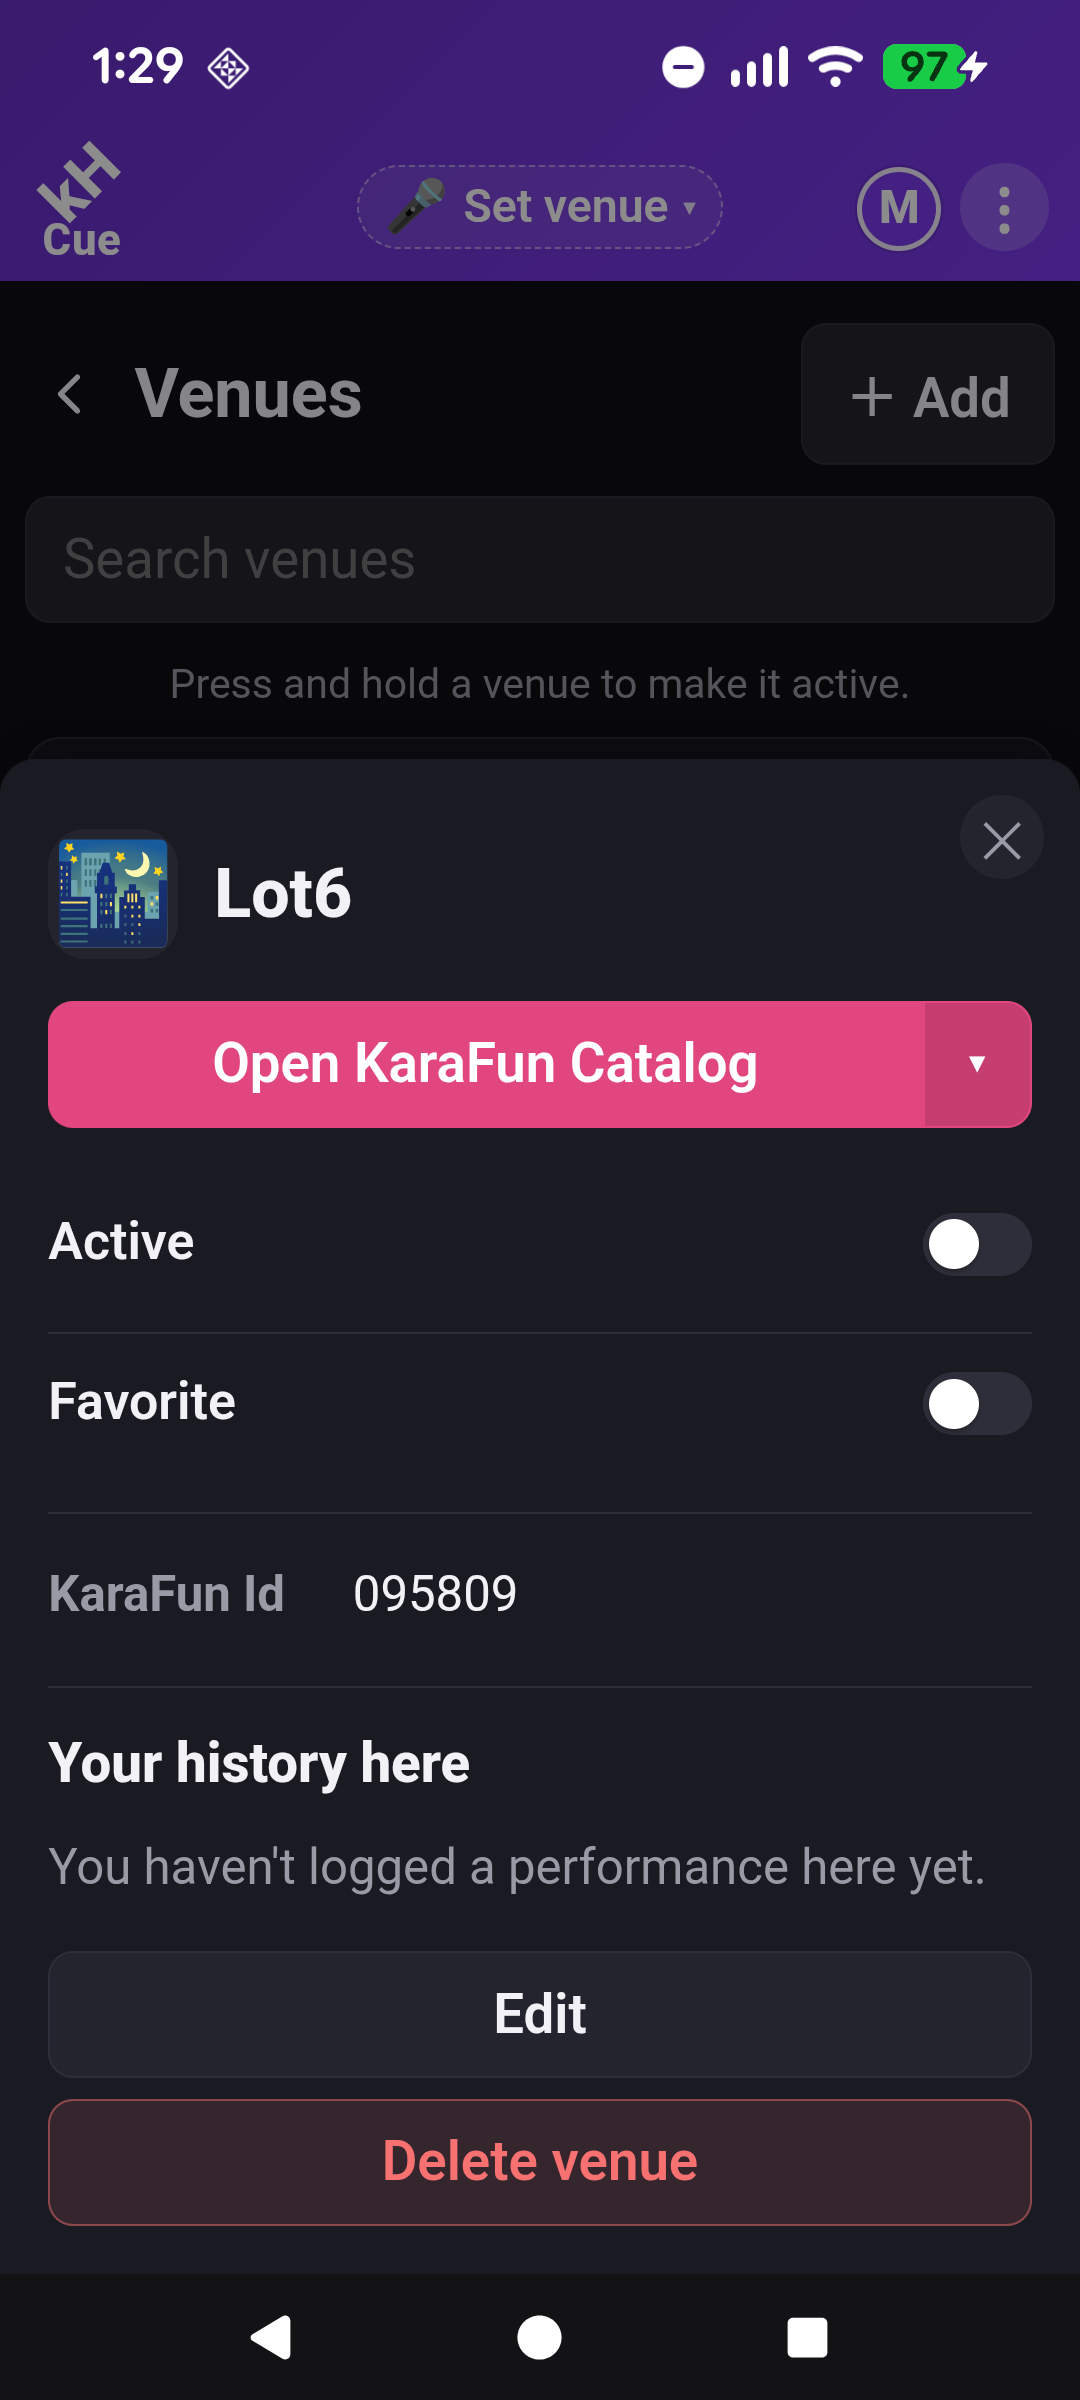
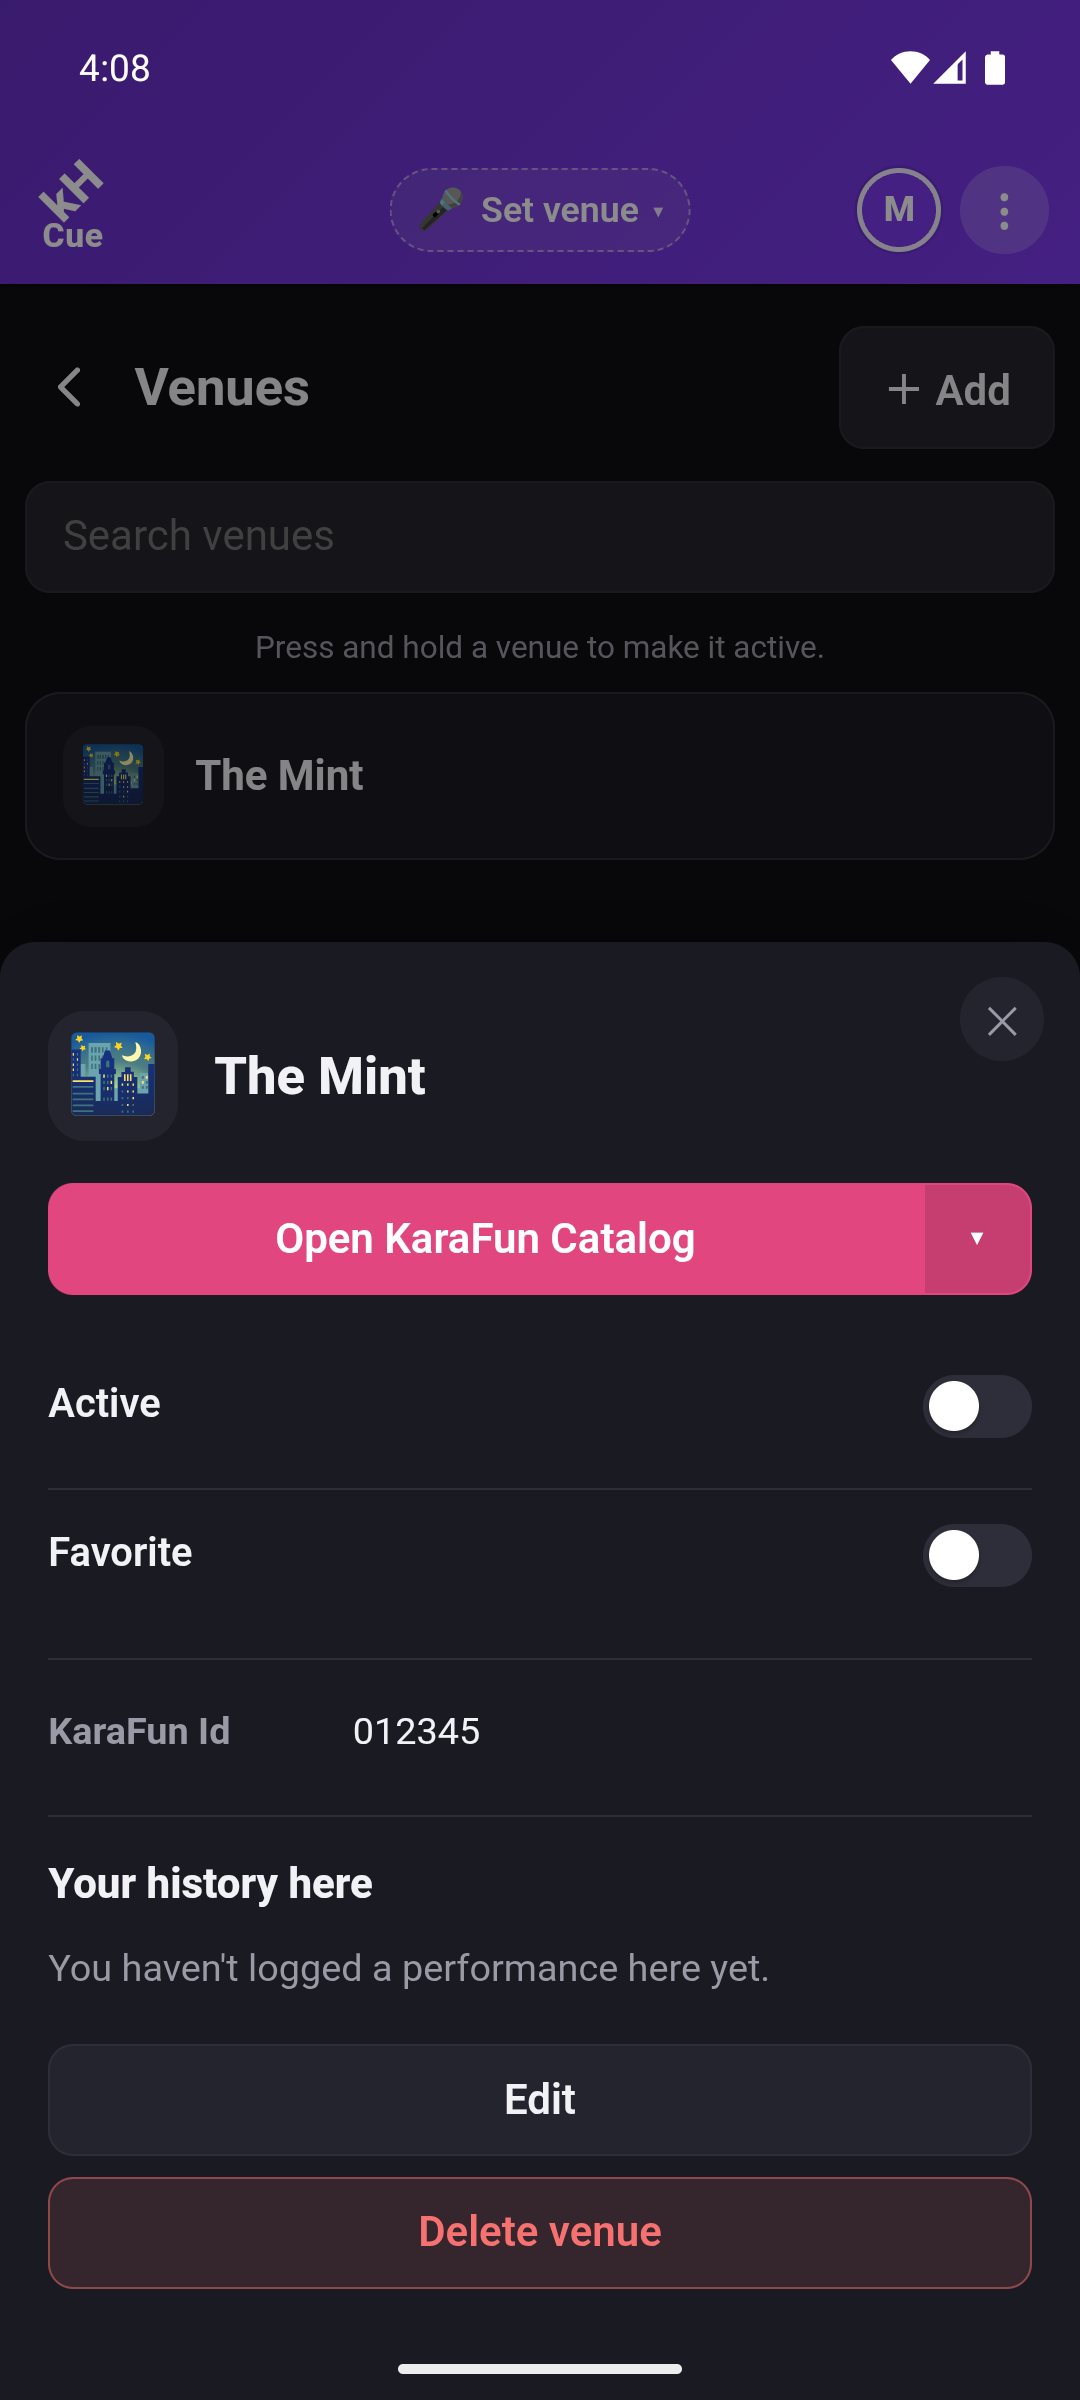
Re-shoot the venues screenshot without a real venue's KaraFun Id
The July grid was shot from a device with a live library, so the venue
sheet published a real venue's catalog ID — public since 26 July, across
v0.13.0, v0.14.0 and v0.15.0. Re-shot on the emulator against seeded
sample data (The Mint / 012345), same skin and layout.

DEVELOPMENT.md's Screenshots section now states the rule, and AGENTS.md
points at it, since nothing in the shoot flow made the exposure visible.

diff --git a/DEVELOPMENT.md b/DEVELOPMENT.md
@@ -80,6 +80,8 @@ Gesture- and sheet-shaped changes are verified by driving the app's WebView over
 
 **The README grid is captured from a physical device** by `playwright/device/shoot_docs.mjs` (plus `shoot_spelling.mjs`, which needs a song with a pending suggestion and so adds and removes a misspelled one). Attach as `playwright/README.md` describes, then `node device/shoot_docs.mjs [name …]`. Shots land at the device's native size — **1080 × 2400** from a Pixel 8, Android status and nav bars included — so re-shoot the whole set from one device rather than mixing sources.
 
+**Shoot against sample data, never a real library — `docs/screenshots/` is public and the README renders it.** The venue detail sheet prints a venue's **KaraFun Id** in the clear, so a grid shot on the phone you actually use publishes a venue you actually go to, along with whatever performance history is attached to it. This is not hypothetical: the July 2026 re-shoot carried a live venue ID for about four weeks, across three releases, before anyone noticed. Seed the sample venue (`The Mint`, KaraFun Id `012345`) and a sample singer first, and **open every PNG and look at it** before committing — the status bar and header chip give away as much as the content does.
+
 Capture goes through `adb exec-out screencap`, **not** `page.screenshot`: CDP capture hangs on this WebView, on a current device head as well as the emulator's older one. Only navigation runs over CDP. Two traps the script encodes, both of which silently photograph the wrong screen: sheets **stack** (detail → history), so close the *last* `.sheet__close`, not the first; and the venue/singer chip popovers are **not** sheets, so they survive a sheet close and then eat the next click. Every shot asserts what's on screen before the shutter, because a wrong-screen capture is otherwise invisible until you look at the PNG.
 
 **Shoot the grid in dark mode, with the active singer on the brand violet.** Both are set on the device before you start: dark via the header **⋮ → 🌙 Dark mode** (it writes `data-theme` on `<html>`, overriding the OS preference, and persists), violet by making a singer whose colour is `SingerColors.Default` (`#7c3aed`) the active one. This isn't taste — the active singer's colour overrides the `--kh-primary` tokens across the whole chrome, so shooting while a teal or amber singer is active produces a grid that doesn't match the app's own branding, and a set shot across two singers won't even match itself. Check the header chip before the first shutter.

diff --git a/AGENTS.md b/AGENTS.md
@@ -55,6 +55,7 @@ dotnet test tests/KHost.Mobile.IntegrationTests/KHost.Mobile.IntegrationTests.cs
 To drive the running app's WebView, use the tools in `playwright/` — `device/` (full Playwright) for a physical device, `emulator/` (raw CDP; the emulator's older WebView rejects Playwright's connect). **`playwright/README.md` is the canonical how-to.**
 
 - **A physical device is someone's actual phone: drive the app, change nothing else.** Never `adb shell monkey` (a random-input fuzzer that can flip device settings like auto-rotate) — use `foreground()` from `device/khdrive.mjs`. No `adb shell settings put`, orientation, or developer-option changes unless the request was explicitly about that. And back up device data before every deploy (above).
+- **A screenshot bound for `docs/screenshots/` is shot against seeded sample data — never a real library**, and you look at every PNG before committing it. The venue sheet prints a venue's KaraFun Id in the clear, and that folder is public; it has already leaked a real one. (DEVELOPMENT.md → Screenshots.)
 
 ## Local features
 
